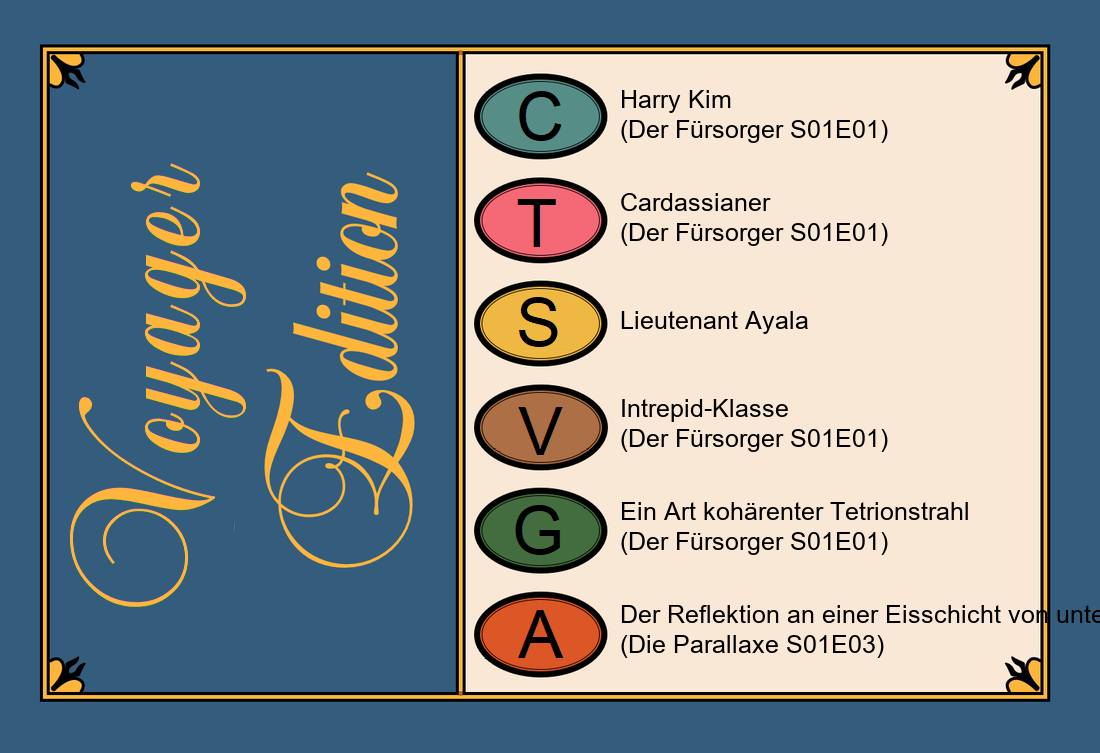
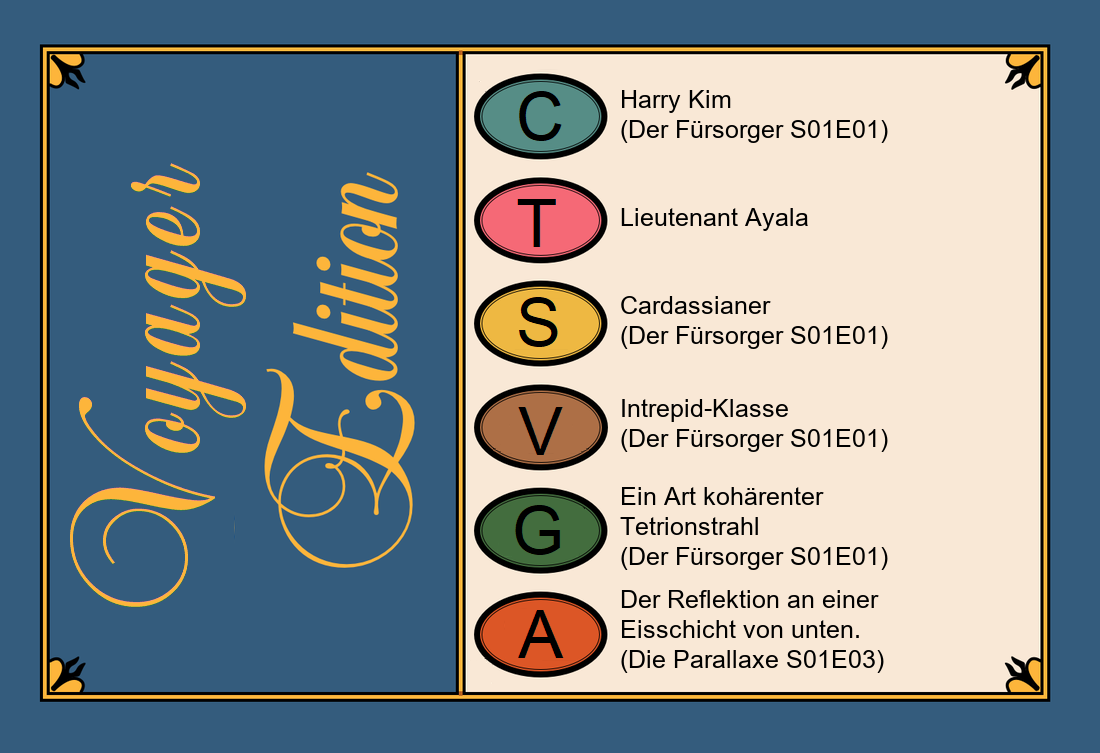
3 lines for question and answer possible, small improvements on tools, validation, constant extension

Changed region(s): [[0.5564, 0.6414, 1.0, 0.8858], [0.5564, 0.2444, 0.8036, 0.336], [0.5564, 0.3971, 0.8036, 0.4582]]

diff --git a/create_cards.py b/create_cards.py
@@ -5,7 +5,7 @@ import sqlite3
 
 from PIL import ImageFont, Image, ImageDraw
 
-from constants import QUESTION_MAX_LINE_LENGTH
+from constants import QUESTION_MAX_LINE_LENGTH, ANSWER_MAX_LINE_LENGTH
 from database_statistics import count_questions, get_categories_from_file
 
 
@@ -19,6 +19,26 @@ def create_connection(db_file):
         return sqlite3.connect(db_file)
     except sqlite3.Error as e:
         print(e)
+
+
+def split_lines(text, line_length):
+    """
+    Split a text in mutliple lines at " " and returns the lines as list
+    :param text: Text to be split
+    :param line_length: Maximum length of each line
+    :return: List with all lines
+    """
+    lines = []
+    line_ends = [0]  # All line endings, first line has to start at index 0
+    spaces = [m.start() for m in re.finditer(' ', text.strip(" "))]  # Find all spaces an write indexes to a list
+    spaces.append(len(
+        text))  # Append end of text to allow last line go to end of the last word, not the one before the last (the last space)
+    for i in range(1, int(len(text) / line_length) + 2):  # For how much lines there have to be
+        line_ends.append(max([s for s in spaces if
+                              s <= i * line_length]) + 1)  # Last space which index is less than QUESTION_MAX_LINE_LENGTH
+        lines.append(text[line_ends[i - 1]:line_ends[
+            i]])  # Append line starting at last line_ends entry and going to line_ends[i]
+    return lines
 
 
 def get_questions_of_categoriy(conn, category):
@@ -44,54 +64,77 @@ def create_cards():
     conn = create_connection("python_sqlite.db")  # If not exist, create database, else establish a connection
     used_ids = []
     fnt = ImageFont.truetype("arial.ttf", 25)
-    with conn:
-        categories, categories_long = get_categories_from_file()
-        # TODO Write categories on blank front, back
+    with conn:  # Keep connection open, as long as necessary
+        categories, categories_long = get_categories_from_file()  # get categories and long name
+        # TODO Write categories on blank front, back in the program in own method
         card_count = 1
         while True:
-            vorne = Image.open("assets/front_cat.png")
+            vorne = Image.open("assets/front_cat.png")  # Load assets
             hinten = Image.open("assets/back_cat.png")
             dv = ImageDraw.Draw(vorne)
             dh = ImageDraw.Draw(hinten)
             y = 100
-            for category in categories:
+            for category in categories:  # For each category
                 print category
-                questions = get_questions_of_categoriy(conn, category)  # TODO Mischen
-                for question_row in questions:  # question_row[ ] 0 - ID, 1 - question, 2 - answer, 3 - category
-                    print question_row
-                    if (question_row[0] in used_ids) and (questions.index(question_row) == (len(questions) - 1)):
+                questions = get_questions_of_categoriy(conn,
+                                                       category)  # Get all questions of those category from database # TODO Mix
+                for question_row in questions:  # question_row[ ] represents one question 0 - ID, 1 - question, 2 - answer, 3 - category
+                    print question_row  # print full question_row
+                    if (question_row[0] in used_ids) and (
+                            questions.index(question_row) == (len(questions) - 1)):  # if no new question was found
                         print "\nSuccessfully created " + str(card_count - 1) + " cards. Those can be found in ./out"
                         print str(count_questions(conn) - 6 * (
                                 card_count - 1)) + " Questions have been ignored. (Due to inapplicable categories)"
-                        print "No more questions available to fill new card!"  # TODO Druckgroesse
+                        print "No more questions available to fill new card!"  # TODO Print size
                         return  # End scipt - cards have been created
-                    if question_row[0] not in used_ids:
-                        used_ids.append(question_row[0])
+                    if question_row[0] not in used_ids:  # if there is a not used question
+                        used_ids.append(question_row[0])  # append to used list
                         question = question_row[
                             1].strip()  # Get question and remove possible whitespace after questionsmark
-                        answer = question_row[2]
-                        if len(question) > QUESTION_MAX_LINE_LENGTH:
-                            spaces = [m.start() for m in re.finditer(' ', question.strip(" "))]  # Find all spaces
-                            print spaces
-                            line1_end = max(
-                                [s for s in spaces if s <= QUESTION_MAX_LINE_LENGTH]) + 1  # Last space which index is less than 60
-                            print line1_end
-                            line1 = question[0:line1_end]  # Zeilenumbruch zu machen, ggf sogar 3 Zeilen machen
-                            line2 = question[line1_end:len(question)]
-                            dv.text((220, y - 15), line1, font=fnt, fill=(0, 0, 0))
-                            dv.text((220, y + 15), line2, font=fnt, fill=(0, 0, 0))
+                        answer = question_row[2]  # Get answer of the question_row
+
+                        question_lines = split_lines(question, QUESTION_MAX_LINE_LENGTH)
+                        if len(question_lines) == 3:  # if question has to be split to multiple lines (here to 2 lines)
+                            dv.text((220, y - 30), question_lines[0], font=fnt,
+                                    fill=(0, 0, 0))  # Align all three lines to y
+                            dv.text((220, y), question_lines[1], font=fnt, fill=(0, 0, 0))
+                            dv.text((220, y + 30), question_lines[2], font=fnt, fill=(0, 0, 0))
+                        elif len(question_lines) == 2:
+                            dv.text((220, y - 15), question_lines[0], font=fnt,
+                                    fill=(0, 0, 0))  # Align both lines with y in the middle
+                            dv.text((220, y + 15), question_lines[1], font=fnt, fill=(0, 0, 0))
                         else:
-                            dv.text((220, y), question, font=fnt, fill=(0, 0, 0))
-                        # print frage.answer
-                        if len(answer.split("(")) > 1:  # TODO Zu lange Antowrten --> wenigstens Warning ausgeben
-                            dh.text((620, y - 15), answer.split("(")[0], font=fnt, fill=(0, 0, 0))
-                            dh.text((620, y + 15), "(" + answer.split("(")[1], font=fnt, fill=(0, 0, 0))
-                        else:
-                            dh.text((620, y), answer, font=fnt, fill=(0, 0, 0))
-                        y = y + 103
+                            dv.text((220, y), question_lines[0], font=fnt,
+                                    fill=(0, 0, 0))  # Align the line in the middle (at y)
+
+                        answer_lines = split_lines(answer.split("(")[0],
+                                                   ANSWER_MAX_LINE_LENGTH)  # Max. 2 lines (because of answer checker in database_tools), Citation will be rendered in a own line
+
+                        citation_exists = False
+                        if len(answer.split("(")) > 1:  # append citation if there is one
+                            citation = answer.split("(")[1]  # TODO split citation in own column in database
+                            answer_lines.append(citation)
+                            citation_exists = True
+                        if len(answer_lines) == 3:  # if there are two lines and a citation
+                            dh.text((620, y - 30), answer_lines[0], font=fnt,
+                                    fill=(0, 0, 0))  # Align all three lines to y
+                            dh.text((620, y), answer_lines[1], font=fnt, fill=(0, 0, 0))
+                            dh.text((620, y + 30), "(" + answer_lines[2], font=fnt, fill=(0, 0, 0))
+                        elif len(answer_lines) == 2:  # if there is just one line and a citation (a split was done)
+                            dh.text((620, y - 15), answer_lines[0], font=fnt,
+                                    fill=(0, 0, 0))  # Align the line a the citation to y
+                            if citation_exists: # 2nd line can be citation or just a second line
+                                dh.text((620, y + 15), "(" + answer_lines[1], font=fnt, fill=(0, 0, 0))
+                            else:
+                                dh.text((620, y + 15), answer_lines[1], font=fnt,fill=(0, 0, 0))
+                        else:  # if there is just a line
+                            dh.text((620, y), answer_lines[0], font=fnt, fill=(0, 0, 0))  # Place the answer at y
+
+                        y = y + 103  # go to the next question # TODO as variable
                         break
 
-            vorne.save("./out/front" + str(card_count) + ".png")
+            vorne.save(
+                "./out/front" + str(card_count) + ".png")  # save front and back of the card with texts written on it
             hinten.save("./out/back" + str(card_count) + ".png")
             card_count = card_count + 1
 

diff --git a/database_tools.py b/database_tools.py
@@ -3,10 +3,10 @@
 # TODO Check length of questions and answer is not to long
 # TODO Check each Question has valid category
 # TODO function which can repair corrupted entries
-import sqlite3
+import sqlite3 #TODO run database tools on txt before inserting to database
 
 import database_statistics
-from constants import QUESTION_MAX_LINE_LENGTH
+from constants import ANSWER_MAX_LINE_LENGTH, QUESTION_MAX_LINE_LENGTH
 
 
 def create_connection(db_file):
@@ -24,34 +24,37 @@ def validate_questions():
     with conn:
         cur = conn.cursor()
         cur.execute("SELECT id,question FROM qac ORDER BY id")
-
         error_count = 0
         warning_count = 0
         for entry in cur.fetchall():
             question_id = entry[0]
             question = entry[1]
-            any_error = False
-            if len(question) > 2 * QUESTION_MAX_LINE_LENGTH: #TODO beim Split koennte zweite Zeile laenger als 1 x QUESTION_MAX_LINE_LENGTH werden
-                print "\033[91mError: Question of entry with ID: " + str(question_id) + " is to long! Cards will be ugly! \033[0m" + question + " \033[91mHas length: " + str(len(question)) + "/" + str(2 * QUESTION_MAX_LINE_LENGTH)+"\033[0m" # TODO Variable for max length
+            any_error = False #TODO naming any_error_or_warning?
+            if len(
+                    question) > 3 * QUESTION_MAX_LINE_LENGTH:  # TODO beim Split koennte zweite Zeile laenger als 1 x QUESTION_MAX_LINE_LENGTH werden
+                print "\033[91mError: Question of entry with ID: " + str(
+                    question_id) + " is to long! Cards will be ugly! \033[0m" + question + " \033[91mHas length: " + str(
+                    len(question)) + "/" + str(3 * QUESTION_MAX_LINE_LENGTH) + "\033[0m"
                 error_count = error_count + 1
                 any_error = True
-            if question[-1] != "?":
+            if question[-1] != "?" and question[-3:] != "...": # Question mark or citing ...s are missing
                 any_error = True
-                warning_count = warning_count + 1
+                warning_count = warning_count + 1 #
                 if question[-1] == " ":
                     print "\033[93mWarning: Question of entry with ID: " + str(
                         question_id) + " has spaces attached to the back. \033[0m" + question
                 else:
-                    print "\033[93mWarning: Question of entry with ID: " + str(question_id) + " has not a ? as last symbol! \033[0m" + question
+                    print "\033[93mWarning: Question of entry with ID: " + str(
+                        question_id) + " has not a ? or ... as last symbol! \033[0m" + question
             if any_error:
                 print("")  # Organize Errors and Warnings in blocks grouped by id
 
         print "\033[1mQuestion-Report\n\033[0m\033[91m  Errors found: \033[0m\033[1m" + str(
             error_count) + "\n \033[0m\033[93m Warnings found: \033[0m\033[1m" + str(warning_count) + "\033[0m\n"
-        return (warning_count, error_count)
+        return warning_count, error_count
 
 
-def validate_answers(): # TODO  In der Laenge der Antworten das Zitat herausrechnen, bei allen Kategorien ausser T
+def validate_answers():  # TODO  In der Laenge der Antworten das Zitat herausrechnen, bei allen Kategorien ausser T
     print "Validating answer entries..."
     conn = create_connection("python_sqlite.db")
     with conn:
@@ -64,12 +67,20 @@ def validate_answers(): # TODO  In der Laenge der Antworten das Zitat herausrech
             answer = entry[1]
             answer_cat = entry[2]
             any_error = False
-            if len(answer.split("(")[0]) > QUESTION_MAX_LINE_LENGTH:
-                print "\033[91mError: Answer of entry with ID: " + str(answer_id) + " is to long! Cards will be ugly! \033[0m" + answer+ " \033[91mHas length: " + str(len(answer)) + "/60\033[0m" # TODO Variable for max length
+            if len(answer.split("(")[0]) > 2 * ANSWER_MAX_LINE_LENGTH: # if both lines of the answer are to long in sum
+                print "\033[91mError: Answer of entry with ID: " + str(
+                    answer_id) + " is too long! Cards will be ugly! \033[0m" + answer.split("(")[0] + " \033[91mHas length: " + str(
+                    len(answer.split("(")[0])) + "/" + str(2 * ANSWER_MAX_LINE_LENGTH) + "\033[0m"  # TODO Variable for max length
                 error_count = error_count + 1
                 any_error = True
-            if answer_cat != "T" and (
-                    answer.find("(") < 0 or answer.find(")") < 0):  # TODO just for this Star Trek thingy thing
+            if len(answer.split("(")) > 1:
+                if len("(" + answer.split("(")[1]) > ANSWER_MAX_LINE_LENGTH: # if citation line is too long
+                    print "\033[91mError: Citation of entry with ID: " + str(
+                        answer_id) + " is too long! Cards will be ugly! \033[0m" + "(" + answer.split("(")[1] + " \033[91mHas length: " + str(
+                        len("(" + answer.split("(")[1])) + "/" + str(ANSWER_MAX_LINE_LENGTH) + "\033[0m"  # TODO Variable for max length
+                    error_count = error_count + 1
+                    any_error = True
+            if answer_cat != "T" and (answer.find("(") < 0 or answer.find(")") < 0):  # TODO just for this Star Trek thingy thing
                 any_error = True
                 warning_count = warning_count + 1
                 print "\033[93mWarning: Answer of entry with ID: " + str(
@@ -79,7 +90,7 @@ def validate_answers(): # TODO  In der Laenge der Antworten das Zitat herausrech
 
         print "\033[1mAnswer-Report\n\033[0m\033[91m  Errors found: \033[0m\033[1m" + str(
             error_count) + "\n \033[0m\033[93m Warnings found: \033[0m\033[1m" + str(warning_count) + "\033[0m\n"
-        return (warning_count, error_count)
+        return warning_count, error_count
 
 
 def validate_categories():
@@ -105,7 +116,7 @@ def validate_categories():
 
         print "\033[1mCategory-Report\n\033[0m\033[91m  Errors found: \033[0m\033[1m" + str(
             error_count) + "\n \033[0m\033[93m Warnings found: \033[0m\033[1m" + str(warning_count) + "\033[0m\n"
-        return (warning_count, error_count)
+        return warning_count, error_count
 
 
 if __name__ == '__main__':

diff --git a/constants.py b/constants.py
@@ -1,1 +1,2 @@
-QUESTION_MAX_LINE_LENGTH = 70
+QUESTION_MAX_LINE_LENGTH = 46
+ANSWER_MAX_LINE_LENGTH = 32

diff --git a/README.md b/README.md
@@ -2,3 +2,7 @@
 
 This framework creates question cards for the game Trivial Pursuit. 
 Just create a questions.txt, think about six categories and start the `trivial_pursuit_creator.py` script.
+
+
+### Creating question cards
+A question card consists of 6 questions. A questions has an answer and is assigned to a category defined in the categories.txt file. Each answer could contain a citation, which is always written in brackets (). 
